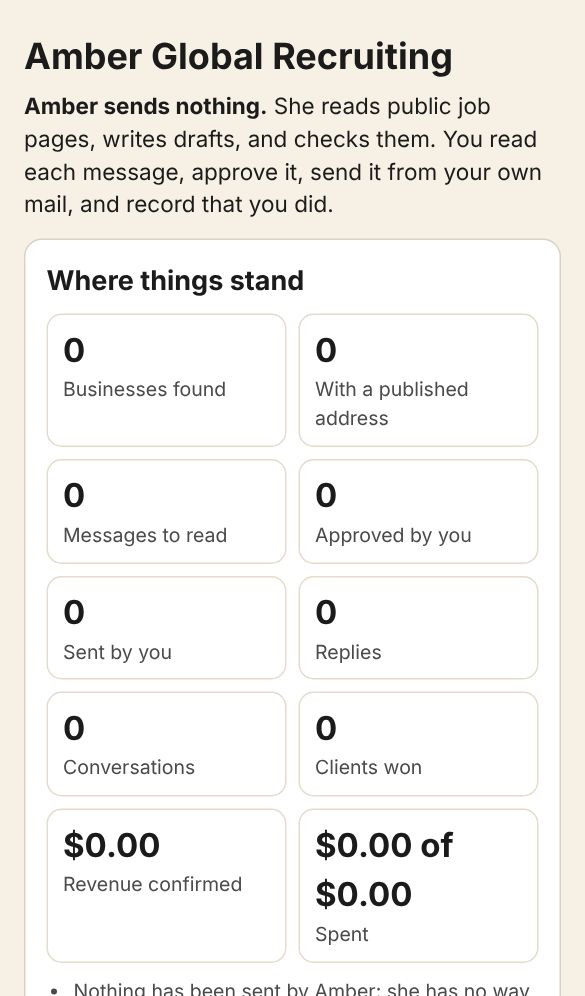
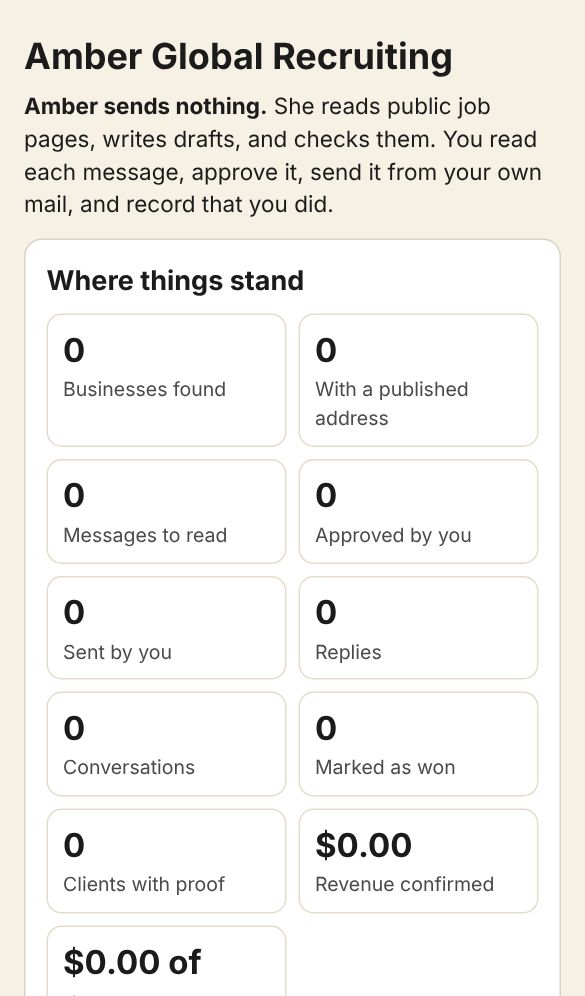
Amber Global Recruiting: report and documents updated after an independent code review's fixes
The morning report now covers the review (15 findings, 14 fixed and tested, the rest documented in 10-review-and-limits.md), the new test
counts (280 in 21 files), the honest day-one rehearsal, and fresh phone screenshots. No code, no secrets and no prospect lists in this folder.

Claude-Session: https://claude.ai/code/session_017vdEcjBAzQbwJs1oSR5SV6

Changed region(s): [[0.0615, 0.8404, 0.9231, 1.0], [0.5231, 0.747, 0.7692, 0.7781], [0.4615, 0.9026, 0.4923, 0.9337]]

diff --git a/AMBER-GLOBAL-RECRUITING-2026-10-19/02-voice-and-compliance.md b/AMBER-GLOBAL-RECRUITING-2026-10-19/02-voice-and-compliance.md
@@ -1,6 +1,6 @@
 # Voice and compliance: what the system refuses, and why
 
-Written 18 Oct 2026 (Pacific). Everything in this file describes code that exists and is tested (`src/lib/recruiting/voice.ts`, `compliance.ts`, `drafts.ts`, `actions.ts`, `state.ts`). It is research turned into rules, not legal advice; the points that need a lawyer are listed at the end.
+Written 18 Oct 2026 (Pacific), revised 19 Oct after an independent code review (see [10-review-and-limits.md](10-review-and-limits.md)). Everything in this file describes code that exists and is tested (`src/lib/recruiting/voice.ts`, `compliance.ts`, `drafts.ts`, `actions.ts`, `state.ts`, `optout.ts`, `scrub.ts`). It is research turned into rules, not legal advice; the points that need a lawyer are listed at the end.
 
 ## The owner's rules, and where each one is enforced
 
@@ -25,6 +25,7 @@ Every message is read by this before the owner sees it. A message with an error 
 - Text that gives away a machine reply: "as an AI", "here is your draft", "certainly!".
 - Claims nobody can check: guarantees, "100%", "risk-free", "track record", "years of experience", "we have placed", "our clients", "trusted by", numbers of candidates or clients, rankings ("top", "best", "leading", "number one"), a license, certification or exclusivity Amber does not have, "AI-ranked", "bias-free", false urgency ("act now", "limited time", "urgent"), "no obligation".
 - Closeness that was not earned: "I've been following your company", "big fan", "congratulations on", "as we discussed", "following up on our call". The sender has only read a careers page.
+- All of the above **in the footer too**. The part under the `--` line is read for stock phrases, claims and false closeness, not only checked for its required lines (a client list or a promise written under the signature is an error). The sender's own name, business name and address are taken out first, so a business called "Best Staffing" is not read as a ranking.
 - Emoji, unfilled placeholders (`{{name}}`, `[company]`, `TODO`, `undefined`), more than one exclamation mark, more than two long dashes, a subject that pretends to be a reply (`Re:`), shouting in a subject, more than two asks in one email, and a first email that does not name at least two things the reader can check (the company and the role, for example).
 
 **It warns about (warnings):** length outside 45 to 130 words for an email; long dashes; words in capitals; the "not just X but Y" pattern; more than one list of three; every sentence about the same length; very long sentences; a message about "we" more than "you"; more than three sentences that start with "I"; bullets or stray spacing in a first email; no question; no plain greeting; a vague subject; one exclamation mark.
@@ -47,8 +48,8 @@ A message is "ready" only if the gate says ok. A **hold** means something must b
 - The wording check found an error.
 - The service is not switched on in the settings.
 - The region forbids cold email, or needs the recipient's prior consent (Germany, Spain, Italy, Canada, Australia, Japan, South Korea, South Africa).
-- The address is not a role address on the company's own domain (`jobs@`, `careers@`, `hello@`, `info@`, `contact@`, `sales@`; never `first.last@`, `noreply@`, `privacy@`, `legal@`). The address on the draft differs from the one found on the company's page.
-- The footer lacks the sender's name, the business name, the postal address, the plain opt-out, the line saying how the address was found, the line saying it is a commercial message, or (unless the owner chose to omit it) the line saying an AI assistant is used.
+- The address is not a role address on the company's own domain (`jobs@`, `careers@`, `hello@`, `info@`, `contact@`, `sales@`; never `first.last@`, `noreply@`, `privacy@`, `legal@`). The address on the draft differs from the one found on the company's page. The address (or the contact form) is not on the company's own website as it stands now: when the owner corrects a website, the mailbox found on the old one is blocked at once and dropped on the next pass, and the new site is read afresh.
+- The footer lacks the sender's name, the business name, the postal address, the plain opt-out, the line saying how the address was found, the line saying it is a commercial message, or (unless the owner chose to omit it) the line saying an AI assistant is used. This holds for a note written into a company's contact form as much as for an email: a commercial message to a business is one either way.
 - A first message was already sent to them, or a follow-up was already sent.
 
 **Holds**
@@ -59,7 +60,7 @@ A message is "ready" only if the gate says ok. A **hold** means something must b
 - The company's roles are in New York, New Jersey, Massachusetts or Illinois, where agency licensing is strict, until the owner has cleared the state after taking advice.
 - No published address was found yet, or the page where it was printed is not recorded.
 - A setting is missing (name, business name, postal address, reply address).
-- A follow-up is less than 7 days after the first message.
+- A follow-up is not yet due. The clock counts whole days from the day typed when the first message was marked as sent: a message sent on the 12th can be followed up from the start of the 20th (UTC), so the gap is at least seven full days whatever hour it went out. A date typed when marking a message as sent cannot be earlier than the day before it was approved, so an invented old date cannot start the clock early.
 - The process has not been approved.
 
 **Notes** (shown, not stopping): a region's research is from public sources and a local lawyer should confirm before volume.
@@ -75,13 +76,20 @@ A message is "ready" only if the gate says ok. A **hold** means something must b
 
 ## Opt-outs
 
-An opt-out is permanent and takes effect the moment the owner records it on the page. It can be by business, domain or address. A reply that the reply classifier reads as "unsubscribe" suppresses automatically. The footer promises "I will not write again" and the system keeps that promise even if the owner forgets: a suppressed business can never appear in the queue, and a message that was already approved stops showing as approved and is shown as blocked.
+An opt-out is permanent and takes effect the moment the owner records it on the page. It can be by business, domain or address.
+
+- **One business is often several records.** A staffing firm with an office in each city is one record per office on the map data, with one website and one mailbox. The records of one website are treated as one business: an opt-out given for one of them stops all of them, a first message sent through one is the first message to the business, and only one note is queued for it. The button sends the record's website and address along with its name, so a record found again later under another name stays set aside.
+- **Spellings do not matter.** `www.`, a subdomain, a trailing dot, the scheme, upper case and plus-addressing (`jobs+spring@`) all match the same company; an opt-out from one mailbox is an opt-out of the whole company, because the person who answered speaks for the business.
+- **The reply reader is wider than the shared classifier.** "Take us off your list", "Stop contacting me", "Don't email me again", "No more emails", "No cold emails", "We do not work with agencies", "This is spam", and the two replies the footer invites ("no thanks" and "not interested") all count. Words allowed between a verb and its object come from a short list, so "Please don't hesitate to send the sample" and "Could you take a sample from your list" do not. A reply logged before the reader was improved is read again whenever the log is folded.
+- **A suppressed business is not even read.** The worker skips it when it looks for an address, and the sample list leaves it out.
+- The footer promises "I will not write again" and the system keeps that promise even if the owner forgets: a suppressed business can never appear in the queue, and a message that was already approved stops showing as approved and is shown as blocked.
+- **Approvals lapse when the ground moves.** Changing any setting that decides what a message says or whether it may go out (name, business, address, reply address, AI line, services, regions, cleared states) ends every approval; changing it back does not bring them back unseen. Withdrawing the process does the same. Changing the budget or the sources leaves approvals alone.
 
 ## What nothing here does
 
 - It does not score, rank, filter or reject a person. There are no people in the list.
 - It does not send, post, submit a form, create an account or message anyone on any network.
-- It does not keep named individuals: no recruiter, hiring manager or poster appears in any stored record.
+- It does not build a profile of any person. An email address or a phone number in a listing or a post, and the name written next to it ("Senior Recruiter - Maria Gonzalez +1 (212) 555-0147" is kept as "Senior Recruiter"), is cut out when the text is read. A name written alone in a title cannot always be told from a role, so the guarantee is that no person is sought out, listed or profiled, not that a stray name can never pass through a public title.
 - It does not claim a result. The ledger counts a dollar as revenue only with proof the owner has confirmed.
 
 ## What a lawyer should confirm before volume

diff --git a/AMBER-GLOBAL-RECRUITING-2026-10-19/10-review-and-limits.md b/AMBER-GLOBAL-RECRUITING-2026-10-19/10-review-and-limits.md
@@ -1,0 +1,37 @@
+# The independent code review, what it found, and the limits that remain
+
+Written 19 Oct 2026 (Pacific). After the recruiting lane was built and tested, a second Claude session that had not written the code was asked to attack it: to read it as a hostile page, a careless owner and a scripted client would, and to run what it claimed. It reviewed commit `edaa2ef4`, re-ran 229 tests on a frozen copy (all passed, type check and linter clean), and reported 15 findings. Its report is model output, not a human audit and not a security certification; its findings were each reproduced or marked plausible. This file says what was done about each. Everything marked **fixed** has a test in `src/lib/recruiting/__tests__/review-fixes.test.ts` (or in `robots-wildcards.test.ts`, `fuzz.test.ts`, `text-readers.test.ts`, `lane.test.ts`).
+
+## What was found, and what was done
+
+| # | Severity | Finding | Status |
+|---|---|---|---|
+| 1 | High | One business under several records (an office in each city) got a second first message after an opt-out on the first; the opt-out matched only the exact address or site; the reply reader missed 9 of 13 opt-outs | **Fixed.** Records on one website are one business for opt-outs, history and the queue. `www.`, subdomains, trailing dots, schemes and plus-addressing no longer defeat a match. The button carries the site and address. The reply reader catches the common phrasings and is read again over the whole log |
+| 2 | High | Past 20,000 logged actions the newest ones were silently not read (a suppress returned success and did nothing) | **Fixed.** A full record refuses the next action with a plain message; the page warns at 90%; ids sort in write order so two actions in one millisecond fold in the order written |
+| 3a | High | A 46-byte `Disallow` rule with several `*` made a company-site check take seconds to minutes on the worker, which is one process for every lane | **Fixed** in the shared `research/robots.ts`: a plain wildcard matcher with no backtracking, a cap on rule and path length, and a cap on the size of a robots.txt that is read. A test compares it with the old matcher on 20,000 random rules and paths (same answers) and checks the hostile rule is answered at once |
+| 3b | High | Many `<script>` tags and a closing tag without `>` made the page reader quadratic (10 s at 400 KB) | **Fixed.** Once a closing tag is found to have no `>` after it, no later one is searched for. The fuzz test now has this shape |
+| 4 | Medium | Claims written under the `--` line (a client list, "guaranteed") were never read | **Fixed.** The footer is read for stock phrases, claims and false closeness; the sender's own name, business and address are taken out first |
+| 5 | Medium | A note for a contact form skipped every footer and address rule | **Fixed.** Same footer rules as email |
+| 6 | Medium | Correcting a company's website kept the old mailbox | **Fixed.** The gate blocks an address that is not on the company's site as it stands; the worker drops the old mailbox and reads the new site |
+| 7 | Medium | Markdown escaping let a pipe, a link, an image or an address in a company name or title break the table or become a live link | **Fixed.** Every character Markdown reads as markup is escaped; links are only ever the two web addresses the list itself prints. Tested by reading the output with a Markdown (GFM) parser: eight cells, no image, no raw markup, two links. (CSV was already complete) |
+| 8 | Medium | A person's name and phone number could be stored as a role title; XML fields were uncapped (a 3.9 MB title made a 7.8 MB document) | **Fixed in part.** Addresses and phone numbers, and the name written next to one, are cut; every text field is capped. **Remains:** a name written alone in a public title cannot be told from a role, so the claim is "no person is sought out, listed or profiled", not "no name can ever pass through" |
+| 9 | Medium | A company's "no cold emails", "no recruiters or agencies" and similar notices were missed; employers that said so were still in the list | **Fixed.** Wider set of phrasings (tested against sentences that merely contain the words); those employers are left out of the list |
+| 10 | Medium | Overstatements: a note offered "ten or so employers in healthcare" with none; "Clients won: 1" after one click; the same payment entered twice counted twice; "found on your careers page" for any address with `jobs` in its host | **Fixed.** A note names an area only when there are rows in it, gives the exact count when small, and is not written at all when fewer than two rows exist. Clients are counted from signed agreements and counted payments on the ledger, once per business; the click is shown separately as "marked as won". One reference is one payment. The page type comes from the path only |
+| 11 | Low | One damaged row in the log (a good envelope, a bad payload) made the page, the API and the worker fail | **Fixed.** Each row is checked before it is applied; a bad one is left out, counted, and shown on the page |
+| 12 | Low | The follow-up clock started at UTC midnight (as little as 6 days after a late send); an old typed date made a follow-up ready at once | **Fixed.** Whole days from the end of the day typed; a date cannot be earlier than the day before approval |
+| 13 | Low | Ties in time broken by a random id (an approval and an edit in one millisecond); withdrawing and re-approving the process, or changing a setting and back, revived old approvals unseen; a sent message could be rejected through the API | **Fixed** |
+| 14 | Low | A subject accepted a line break; `add-board` accepted `constructor`; `?minDays=abc` dropped the 45-day floor; the request body was read before its size was checked | **Fixed** (the body is read up to the limit and no further) |
+| 15 | Plausible only | In shared code used by other lanes: `safeFetch` looks up a host again after checking it; robots.txt is not re-checked on a redirect target; robots.txt fetches are outside the 110-request budget; the robots body had no cap | The cap is **fixed** (see 3a). The other three are **left as they are and documented here**, below |
+
+## Limits that remain
+
+1. **Three behaviours of code shared with other Amber lanes are unchanged:** the address check in `src/lib/api-v1/url-guard.ts` resolves a host and then the request resolves it again (a hostile DNS answer could differ between the two); the robots.txt rule of a company site is not checked again on the page a redirect leads to; and the robots.txt requests are not counted against the lane's 110-request budget. They were left alone because they belong to code that other lanes run in production, nothing could be run against a live host from the build environment, and a change there is a change to all of them. Each is small in this lane (the lane reads public pages at low rates and keeps only text), and each should be a separate, reviewed change.
+2. **The review was another model's work, in the same environment.** It could not reach any live host either. It did not look at deployment, secrets handling in Railway, or the database itself.
+3. **No live read has ever happened.** Nine of the twelve source adapters were written from documentation or search excerpts (see 03-lead-sources). The first read on the production worker will show which of them need a fix.
+4. **GitHub Actions cannot start jobs on this account (billing),** so none of this has been through the project's CI. The local runs are: 280 recruiting tests, 37 in the shared web-hazard ratchet (one of which flagged a comment in the recruiting reader, now reworded), the other tests that use the shared robots.txt code (all pass except five in `route-to-organization.test.ts`, which need a database that this environment does not have), the type check and the linter.
+5. **The decision log has a hard end at 20,000 entries.** At the pace of a one-person side business that is years away; the page says so well before it, and an archive step would be a small separate change.
+6. **Legal points** are unchanged and still need a lawyer (02-voice-and-compliance, last section).
+
+## What the review found sound
+
+The owner-or-admin check and the same-site check on the API; request size handling; that the server, not the browser, supplies the text of an approved message; that `__proto__` and `constructor` in JSON pollute nothing; that regions needing consent, placement and split fees cannot be switched on; that suppress, reply, edit and withdrawing the process each beat an earlier approval; that an unapproved process, personal addresses, a missing email footer and the default region all hold; a 49-address battery for role mailboxes; that the ledger needs proof plus confirmation; that every fetch goes through the guarded fetch; that there is no sending code and no unescaped HTML; that no XML entity expansion occurs; that the wording check and the reply classifier are linear at 600 KB; and that the worker and the page write separate rows.

diff --git a/AMBER-GLOBAL-RECRUITING-2026-10-19/00-MORNING-REPORT.md b/AMBER-GLOBAL-RECRUITING-2026-10-19/00-MORNING-REPORT.md
@@ -1,6 +1,6 @@
 # Amber Global Recruiting: morning report
 
-Written overnight, Sunday 18 Oct 2026, about 9:45 PM Pacific (04:45 UTC Monday 19 Oct). The code is on branch `claude/amber-global-recruiting` in the private `amberai` repository (last commit 5f906935, no pull request open). The written record is this folder.
+Written overnight, Sunday 18 Oct 2026, about 9:45 PM Pacific (04:45 UTC Monday 19 Oct), and updated about 11:15 PM Pacific (06:15 UTC) after an independent code review's fixes. The code is on branch `claude/amber-global-recruiting` in the private `amberai` repository (last commit 867a19ec, no pull request open). The written record is this folder.
 
 ## The short version
 
@@ -38,19 +38,19 @@ Also built: a probe for the first live check (`scripts/recruiting-live-probe.ts`
 
 ## 2. What was tested
 
-- **229 automated tests in 19 files, all passing.** They cover the wording check, the legal gate, every job-source reader against the vendors' documented sample responses, discovery and scoring, the composer, the owner's decision log, the page model, the API, the lane, the candidate rules, the revenue model and the marketing copy.
+- **280 automated tests in 21 files, all passing** (`npm run test:recruiting`), plus the 37 tests of the repository's shared web-hazard check, which flagged one comment in the recruiting reader (reworded) and now passes. The tests cover the wording check, the legal gate, every job-source reader against the vendors' documented sample responses, discovery and scoring, the composer, the owner's decision log, the page model, the API, the lane, the candidate rules, the revenue model, the marketing copy, and one test group per finding of the code review below.
 - **Type check and lint: clean** on everything new.
-- **Offline rehearsal of the whole lane** on made-up servers: 11 of 11 documented response shapes read; 4 feeds, 1 Hacker News thread, 6 boards, 20 roles, 4 businesses found, 1 published address found; 1 message composed, ready, 0 wording errors, 0 look-alike pairs; revenue $0.00.
+- **Offline rehearsal of the whole lane** on made-up servers: 11 of 11 documented response shapes read; 4 feeds, 1 Hacker News thread, 6 boards, 20 roles, 4 businesses found, 1 published address found. On the first day no note is written, because no role has yet been listed for 45 days and a free sample that cannot be produced is a promise that cannot be kept; fifty days on, if the same roles are still listed, the list has 2 rows and 1 note is composed, ready, with 0 wording errors and 0 look-alike pairs; revenue $0.00.
 - **The page in a phone-size browser**, driven end to end on made-up data: settings, approving the process, approving a message, "I sent it", a reply, an opt-out, the sample list, money, adding a board. No console errors.
 - **Wording across a batch:** in a 40-message test the median pair of messages shares under 12% of its wording and none reaches 40%.
 - **A stress test found a real defect, now fixed.** Feeding the page and feed readers 200 KB of hostile text showed that the address finder took 23 seconds on a long unbroken run of letters (an inlined script on a company's page can contain one), and similar patterns elsewhere rescanned to the end of the text at every unclosed tag. A regular expression cannot be interrupted, and the worker also runs the KDP and coloring-book lanes, so one such page could have stalled them. The readers now run in time proportional to the text (slowest call about 20 ms on 21 kinds of hostile input), and a test keeps it that way.
 - **A skeptical second reader went through the messages and marketing copy** and found what a word list cannot: guesses about the reader's business, claims of experience and demand that do not exist yet, a footer calling a first message "one-time" when a follow-up exists, and an agency's area read from its own office staff. All fixed (see [06-marketing](06-marketing/README.md)).
-- **A code-safety review** (suppression and approval logic, the API, injection, request safety, storage races): CODEREVIEW
+- **An independent code-safety review**, by a second Claude session that had not written the code and was asked to attack it (suppression and approval logic, the API, injection, request safety, storage races, hostile pages). It reproduced 15 findings: 3 high, 7 medium, 4 low, and 1 plausible-only in code shared with other Amber lanes. **Findings 1 to 14 are fixed and tested.** The high ones: a staffing firm with an office in each city could be sent a second first message after it had opted out of the first, and the shared reply reader missed 9 of 13 ways of saying "stop"; the record of your actions silently stopped being read past 20,000 entries; and a hostile company site could still freeze the worker (which also runs the KDP and coloring lanes) with a 46-byte robots.txt rule or a page of unclosed script tags. The medium ones included claims hidden below the signature line, notes for a contact form with no footer, a corrected website keeping the old mailbox, and spreadsheet and Markdown output that a crafted company name could break. Finding 15 is fixed in one part (a size cap on robots.txt) and **documented, not changed,** in the other three, because they sit in code that other lanes run in production. What was found, what was done, and the limits that remain: [10-review-and-limits.md](10-review-and-limits.md). It is another model's review, not a human audit or a security certification.
 - **Not tested, and not claimed:** any live read of any job source; the deployed worker job; the page against the production database; real mail; GitHub Actions (it cannot run). The build container's network refuses every job site, and the research agents' page-fetch tool could not open any page.
 
 ## 3. What is working
 
-On test data, end to end: discovery from all supported source shapes; classification of employer versus staffing business; the 45-day rule with the date basis stated on every row; contact finding from a company's own pages with a robots check and a role-address rule; message composition; the wording and legal gate (opt-outs, replies, regions, states, footer, one message and one follow-up only); the owner's approval tied to the exact text; replies sorted; stages; the evidence-only money ledger; the export of the sample list (spreadsheet and Markdown, with formula and table injection defused).
+On test data, end to end: discovery from all supported source shapes; classification of employer versus staffing business; the 45-day rule with the date basis stated on every row; contact finding from a company's own pages with a robots check and a role-address rule; message composition; the wording and legal gate (opt-outs, replies, regions, states, footer, one message and one follow-up only); the owner's approval tied to the exact text; replies sorted; stages; the evidence-only money ledger; the export of the sample list (spreadsheet and Markdown, with formula and table injection defused and checked with a Markdown parser). A first note is written only when at least two employers with a role open 45 days or more exist, it gives the exact count when small, and it names an area ("healthcare") only when there are rows in it. A staffing firm with several offices is one business: one opt-out, one first message, one note. "Clients" on the page means a business with a signed agreement or a counted payment on the ledger, not a click on "won".
 
 "Working" here means working on fixtures. Whether it works on the real internet is the first thing to find out, and the probe is built for exactly that.
 

diff --git a/AMBER-GLOBAL-RECRUITING-2026-10-19/06-marketing/07-example-list.md b/AMBER-GLOBAL-RECRUITING-2026-10-19/06-marketing/07-example-list.md
@@ -6,7 +6,7 @@ What to notice:
 
 - One row per company, longest-open first. Recruiter jobs are left out.
 - "Listed since" is the date the job board gave, or, where it gave none, the day Amber first saw the listing, and the row says so ("first seen").
-- The hiring address is one the company prints on its own site; where none was found, the cell says so. There is no person's name anywhere in the list.
+- The hiring address is one the company prints on its own site; where none was found, the cell says so. No person is named in the list on purpose, and an address or phone number of an individual would be cut out when a listing is read.
 - Every row carries the link to the listing so the agency can check it before calling.
 
 # Employers whose roles have stayed open (example, invented companies)
@@ -15,16 +15,16 @@ Prepared 2026-10-19. Roles open 45 days or more, United States. All names in thi
 
 | Company | Role | Where | Listed since | Days open | Listing | Where it was read | Hiring address the company publishes |
 |---|---|---|---|---|---|---|---|
-| Northfield Robotics | Controls Engineer | Austin, TX | 2026-07-19 | 92 | https://northfieldrobotics.example/careers/100 | Greenhouse job board | none found |
-| Cedar & Stone Construction | Project Estimator | Denver, CO | 2026-08-03 | 77 | https://cedarandstone.example/careers/101 | Greenhouse job board | careers@cedarandstone.example (printed at https://cedarandstone.example/careers) |
-| Redwood Dental Group | Practice Manager | Sacramento, CA | 2026-08-09 | 71 | https://redwooddental.example/careers/102 | Greenhouse job board | jobs@redwooddental.example (printed at https://redwooddental.example/careers) |
-| Brightwater Software | Senior Backend Engineer | Remote (US) | 2026-08-12 | 68 | https://brightwatersoftware.example/careers/103 | Greenhouse job board | careers@brightwatersoftware.example (printed at https://brightwatersoftware.example/careers) |
-| Lakeside Logistics | Dispatch Supervisor | Columbus, OH | 2026-08-17 | 63 | https://lakesidelogistics.example/careers/104 | Greenhouse job board | none found |
-| Birchwood Accounting Partners | Staff Accountant | Tampa, FL | 2026-08-22 (first seen) | 58 | https://birchwoodaccounting.example/careers/105 | Greenhouse job board | hello@birchwoodaccounting.example (printed at https://birchwoodaccounting.example/careers) |
-| Maple Street Pharmacy Group | Pharmacy Technician | Phoenix, AZ | 2026-08-25 | 55 | https://maplestreetpharmacy.example/careers/106 | Greenhouse job board | jobs@maplestreetpharmacy.example (printed at https://maplestreetpharmacy.example/careers) |
-| Harbor Light Home Health | Registered Nurse, Home Care | Portland, ME | 2026-08-31 | 49 | https://harborlighthealth.example/careers/107 | Greenhouse job board | none found |
+| Northfield Robotics | Controls Engineer | Austin, TX | 2026-07-19 | 92 | <https://northfieldrobotics.example/careers/100> | Greenhouse job board | none found |
+| Cedar \& Stone Construction | Project Estimator | Denver, CO | 2026-08-03 | 77 | <https://cedarandstone.example/careers/101> | Greenhouse job board | careers\@cedarandstone.example (printed at <https://cedarandstone.example/careers>) |
+| Redwood Dental Group | Practice Manager | Sacramento, CA | 2026-08-09 | 71 | <https://redwooddental.example/careers/102> | Greenhouse job board | jobs\@redwooddental.example (printed at <https://redwooddental.example/careers>) |
+| Brightwater Software | Senior Backend Engineer | Remote \(US\) | 2026-08-12 | 68 | <https://brightwatersoftware.example/careers/103> | Greenhouse job board | careers\@brightwatersoftware.example (printed at <https://brightwatersoftware.example/careers>) |
+| Lakeside Logistics | Dispatch Supervisor | Columbus, OH | 2026-08-17 | 63 | <https://lakesidelogistics.example/careers/104> | Greenhouse job board | none found |
+| Birchwood Accounting Partners | Staff Accountant | Tampa, FL | 2026-08-22 (first seen) | 58 | <https://birchwoodaccounting.example/careers/105> | Greenhouse job board | hello\@birchwoodaccounting.example (printed at <https://birchwoodaccounting.example/careers>) |
+| Maple Street Pharmacy Group | Pharmacy Technician | Phoenix, AZ | 2026-08-25 | 55 | <https://maplestreetpharmacy.example/careers/106> | Greenhouse job board | jobs\@maplestreetpharmacy.example (printed at <https://maplestreetpharmacy.example/careers>) |
+| Harbor Light Home Health | Registered Nurse, Home Care | Portland, ME | 2026-08-31 | 49 | <https://harborlighthealth.example/careers/107> | Greenhouse job board | none found |
 
-Every row is taken from a public job listing: the company's own careers page or a job board that lists the role (the column "Where it was read" names it). Nothing here is about a named person. "Days open" counts from the date the vendor gave for the listing, or from the first day Amber saw it listed; a role may have been open longer, or may have been withdrawn since the page was read.
+Every row is taken from a public job listing: the company's own careers page or a job board that lists the role (the column "Where it was read" names it). The rows are about companies and roles: no person is named on purpose, and an address or phone number of an individual is cut out when a listing is read. "Days open" counts from the date the vendor gave for the listing, or from the first day Amber saw it listed; a role may have been open longer, or may have been withdrawn since the page was read.
 
 Listings were read from the public job-board pages of: Greenhouse job board.
 

diff --git a/AMBER-GLOBAL-RECRUITING-2026-10-19/09-viability.md b/AMBER-GLOBAL-RECRUITING-2026-10-19/09-viability.md
@@ -41,7 +41,7 @@ Contacts needed for one paid pilot: about 1,250 (cautious), 330 (central), 130 (
 |---|---|---|
 | A fee tied to a hire, or introducing candidates, is employment-agency activity in many places | Legal | The first offer is a fixed-fee list with no candidate contact. The gate refuses placement and split-fee services everywhere and holds work tied to NY, NJ, MA and IL until the owner, advised, clears the state. |
 | Cold business email: CAN-SPAM has no B2B exception; California adds statutory damages; Canada, Germany, Spain, Italy, Australia and others need consent | Legal | First messages go only to US business addresses by default. A region needing consent cannot be cleared on the page. Every message has the sender's real name, postal address, how the address was found, a plain opt-out and a notice that it is a commercial message. An opt-out is honored at once and kept for good. |
-| Lists of named people can make a business a data broker (California Delete Act) and bring GDPR duties | Legal | Nothing in the list is about a person. Only a role mailbox that the company itself prints is kept, never a named person's address. |
+| Lists of named people can make a business a data broker (California Delete Act) and bring GDPR duties | Legal | The list is about companies and roles. Only a role mailbox that the company itself prints is kept, never a named person's address; an address or phone number found in a listing is cut out, with the name beside it. |
 | AI in hiring: New York City, Illinois, Colorado, California rules; EU AI Act; a vendor can be sued as an employer's agent | Legal | Nothing scores, ranks, filters or rejects a person. The candidate evidence sheet quotes what the candidate wrote and says "not stated" otherwise; it has no number and no order of fit. |
 | Scraping professional networks breaks their terms | Legal | No scraping of any network, and no automation on LinkedIn. Candidates come in on their own. |
 | Claims of clients, results or licenses that do not exist | Legal, honesty | The wording check refuses them. Revenue counts only with proof and the owner's confirmation. |
@@ -49,7 +49,7 @@ Contacts needed for one paid pilot: about 1,250 (cautious), 330 (central), 130 (
 | Response formats of the job feeds were recalled from documentation, not seen | Technical | Parsers tolerate missing fields; a response with entries but no readable role is reported as a changed format and skipped. Eleven readers parse the research agents' documented samples. The first live read on the worker settles it. |
 | The vendors give no list of their customers | Technical | Boards are learned from Hacker News posts and companies' own careers pages, and the owner can add any. Staffing businesses are also found on map data. |
 | The build environment could not reach any job-feed host | Technical | Nothing was read live tonight. All tests use fixtures. Live probing waits for the worker. |
-| GitHub Actions will not run (billing) | Technical | All 229 tests, the type check and the linter were run locally. A merge needs the owner's word. |
+| GitHub Actions will not run (billing) | Technical | All 280 tests, the type check and the linter were run locally. A merge needs the owner's word. |
 | The worker has no disk that survives a deploy | Technical | State is kept in the database, in two rows that two different writers never share. |
 
 ## What would change the verdict

diff --git a/AMBER-GLOBAL-RECRUITING-2026-10-19/08-runbook.md b/AMBER-GLOBAL-RECRUITING-2026-10-19/08-runbook.md
@@ -73,15 +73,18 @@ Any one of these is enough. None deletes anything.
 | A message is "blocked" | The wording check or the gate refused it | The card shows the reason; edit and the checks run again |
 | Days open look too low for a feed role | The feed gives no posting date, so the count starts when Amber first saw it | Expected. The sheet says "first seen" for those rows |
 | A number on the page looks wrong | Check the decision log: every figure is folded from it | Ask Claude to read the `RECRUITING_DECISION` rows and the `RECRUITING_PROSPECTS` document |
+| The page says the record of your actions is full or nearly full | The log holds 20,000 entries; a full log refuses new actions instead of accepting ones that would never be read back | Tell Claude: the older entries can be archived (nothing is lost; a copy is kept) |
+| The page says N entries could not be read and were left out | A row of the log was damaged, written by hand, or written by another version of the code | Everything else is shown as recorded; ask Claude to read those rows before you send anything |
+| "Clients with proof" is lower than "Marked as won" | A click on "won" is your word, not evidence. A client is a business with a signed agreement or counted revenue recorded against it | Record the agreement or the payment under Money, and choose the business |
 
 ## Checks that were run, and how to run them again
 
 | Check | Command | Last result (18 Oct 2026, Pacific) |
 |---|---|---|
-| Unit and integration tests | `npm run test:recruiting` | all 229 pass |
+| Unit and integration tests | `npm run test:recruiting` | all 280 pass (includes the robots.txt matcher test that protects the worker from freezing) |
 | Type check | `npx tsc -p <a tsconfig that includes the recruiting folders>` | clean |
 | Lint | `npx eslint src/lib/recruiting src/app/dashboard/recruiting src/app/api/recruiting src/components/hq/hq-actions.ts scripts/recruiting-*.ts` | clean |
-| Offline rehearsal of the whole lane on the documented sample payloads | `npx tsx scripts/recruiting-rehearsal.ts` | 11 of 11 documented shapes read; 1 message composed and ready; 0 wording errors; 0 template-like pairs; revenue $0.00 |
+| Offline rehearsal of the whole lane on the documented sample payloads | `npx tsx scripts/recruiting-rehearsal.ts` | 11 of 11 documented shapes read; on the day of the first read no message is written (no role has been listed for 45 days, so there is no sample to offer); fifty days on, if the same roles are still listed, 1 message composed and ready; 0 wording errors; 0 template-like pairs; revenue $0.00 |
 | Revenue tables | `npx tsx scripts/recruiting-revenue-model.ts` | matches 05-revenue-plan |
 | Regenerate the marketing pages | `npx tsx scripts/recruiting-docs.ts` | matches `06-marketing/` |
 | The owner's page in a phone viewport | a local harness drove the whole flow in a headless browser: settings, process approval, message approval, "I sent it", reply, opt-out, sample list, money | worked; no console errors |

diff --git a/AMBER-GLOBAL-RECRUITING-2026-10-19/screenshots/README.md b/AMBER-GLOBAL-RECRUITING-2026-10-19/screenshots/README.md
@@ -1,13 +1,13 @@
 # The owner's page, as it looks on a phone
 
-What `/dashboard/recruiting` on HQ looks like after a deploy, captured in a headless browser with an iPhone 14 profile from the current build. Nothing was read from the internet and nothing was sent to produce these.
+What `/dashboard/recruiting` on HQ looks like after a deploy, captured in a headless browser with an iPhone 14 profile from the current build (recaptured at 11 PM Pacific on 18 Oct, after the review fixes). Nothing was read from the internet and nothing was sent to produce these.
 
 | File | What it shows | Real or demo |
 |---|---|---|
-| `1-first-load-top.jpg` | The top of the page the first time it opens: every number at zero | **The real first-load state** |
+| `1-first-load-top.jpg` | The top of the page the first time it opens: every number at zero ("Marked as won" and "Clients with proof" are separate) | **The real first-load state** |
 | `2-first-load-process.jpg` | The messaging and compliance process you are asked to approve, with what is still open | **The real first-load state** |
 | `3-first-load-sources.jpg` | What Amber reads, with each source's terms in plain words, and the form to add a job board by hand | **The real first-load state** |
 | `4-money-at-zero.jpg` | The money panel: revenue counts only with proof; budget $0.00 | **The real first-load state** |
-| `5-demo-messages.jpg` | Three messages waiting for approval, each with the compliance check, and the buttons Approve, Edit, Reject, Copy | **Demo only**: invented staffing companies (`.example` addresses) and an invented sender, in a test harness |
+| `5-demo-messages.jpg` | Three messages waiting for approval, each with the compliance check, and the buttons Approve, Edit, Reject, Copy. The count in each note is the number of rows the sample really has | **Demo only**: invented staffing companies (`.example` addresses) and an invented sender, in a test harness |
 
 Once a worker has run, the page fills in with whatever was really read. Until then it says so and shows zeros.

diff --git a/AMBER-GLOBAL-RECRUITING-2026-10-19/07-owner-approvals.md b/AMBER-GLOBAL-RECRUITING-2026-10-19/07-owner-approvals.md
@@ -6,7 +6,7 @@ Written 18 Oct 2026 (Pacific). Nothing below was done. Each item says what, why,
 
 | # | Decision | Why it needs you | My recommendation | Cost |
 |---|---|---|---|---|
-| A1 | **Merge and deploy the code.** Private repo `amberai`, branch `claude/amber-global-recruiting`. No pull request is open. | Merges and deploys need your explicit word. GitHub Actions cannot start jobs (account billing), so no CI has run; I ran 229 tests, the type check and the linter locally. I did not bypass the block. | Ask me to open the pull request and read its summary; then say "merge". On merge the page `/dashboard/recruiting`, its API, an HQ tile and one new job kind appear. The job does nothing until A2. | $0 |
+| A1 | **Merge and deploy the code.** Private repo `amberai`, branch `claude/amber-global-recruiting`. No pull request is open. | Merges and deploys need your explicit word. GitHub Actions cannot start jobs (account billing), so no CI has run; I ran 280 tests (and 37 in the shared web-hazard ratchet), the type check and the linter locally. I did not bypass the block. | Ask me to open the pull request and read its summary; then say "merge". On merge the page `/dashboard/recruiting`, its API, an HQ tile and one new job kind appear. The job does nothing until A2. | $0 |
 | A2 | **Switch the lane on.** Set `AMBER_RECRUITING_LANE=1` on the worker. | It makes the worker read public pages for the first time. | Do it right after A1, then I check the sources panel with you (08-runbook). | $0 |
 | A3 | **Which sources stay on**, and one terms check. | Job-feed terms are unclear for commercial reuse (03-lead-sources). Remotive says that showing its jobs to collect signups or emails is a breach; most vendors say nothing. | Keep company boards, Hacker News and maps on. Decide whether the four aggregators (Remote OK, Remotive, Arbeitnow, Jobicy) feed a sold list; the cautious choice is off for the sold list. Read Hacker News's terms once. | $0 |
 

diff --git a/AMBER-GLOBAL-RECRUITING-2026-10-19/README.md b/AMBER-GLOBAL-RECRUITING-2026-10-19/README.md
@@ -21,11 +21,12 @@ An AI-assisted recruiting business based in Los Angeles, started on 18 Oct 2026 
 | [07-owner-approvals.md](07-owner-approvals.md) | Decisions and approvals for the owner |
 | [08-runbook.md](08-runbook.md) | Turning it on, the first live check, switches, troubleshooting, the checks that were run |
 | [09-viability.md](09-viability.md) | Commercial viability, legal and technical barriers, the verdict |
+| [10-review-and-limits.md](10-review-and-limits.md) | What an independent code review found, what was fixed and tested, and the limits that remain |
 | [research/](research/) | The three research reports as written by the research agents, with their evidence labels, plus the compliance matrix and the source assessments |
 
 ## The code
 
-`src/lib/recruiting/` (26 modules and 19 test files), `src/app/dashboard/recruiting/page.tsx`, `src/app/api/recruiting/`, the worker job `RECRUITING_TICK` in `src/lib/cloud/work-queue.ts`, and scripts under `scripts/recruiting-*.ts`. Run `npm run test:recruiting` for the tests.
+`src/lib/recruiting/` (29 modules and 20 test files), `src/app/dashboard/recruiting/page.tsx`, `src/app/api/recruiting/`, the worker job `RECRUITING_TICK` in `src/lib/cloud/work-queue.ts`, and scripts under `scripts/recruiting-*.ts`. Run `npm run test:recruiting` for the tests.
 
 ## Five facts to hold on to
 

diff --git a/AMBER-GLOBAL-RECRUITING-2026-10-19/04-workflow.md b/AMBER-GLOBAL-RECRUITING-2026-10-19/04-workflow.md
@@ -38,7 +38,7 @@ This is the workflow the owner runs. It is meant to take about 15 minutes a day.
 | Approve | Owner, per message | Approves the exact text. The approval is tied to a hash of the subject and body, so any later change cancels it | `approve-draft` with the text and its hash |
 | Send | Owner, by hand | Copies the approved message into their own mail (a "mailto" link is offered) and sends it. **Amber cannot send.** | Nothing |
 | Mark sent | Owner | Presses "I sent it" with the date | `mark-sent` |
-| Follow-up | Owner | One follow-up is prepared at least seven days later, showing one real row from the list. No third message exists | `approve-draft`, `mark-sent` |
+| Follow-up | Owner | One follow-up is prepared from the eighth day after the day the first message went out (at least seven full days), showing one real row from the list. No third message exists | `approve-draft`, `mark-sent` |
 | Record a reply | Owner | Pastes the reply. It is classified (interested, not interested, unsubscribe, question...). An unsubscribe suppresses the business for good | `log-reply` |
 | Record a conversation | Owner | A note in their own words | `log-conversation` |
 | Move it on | Owner | Proposal, won, lost, not a fit | `set-stage` |
